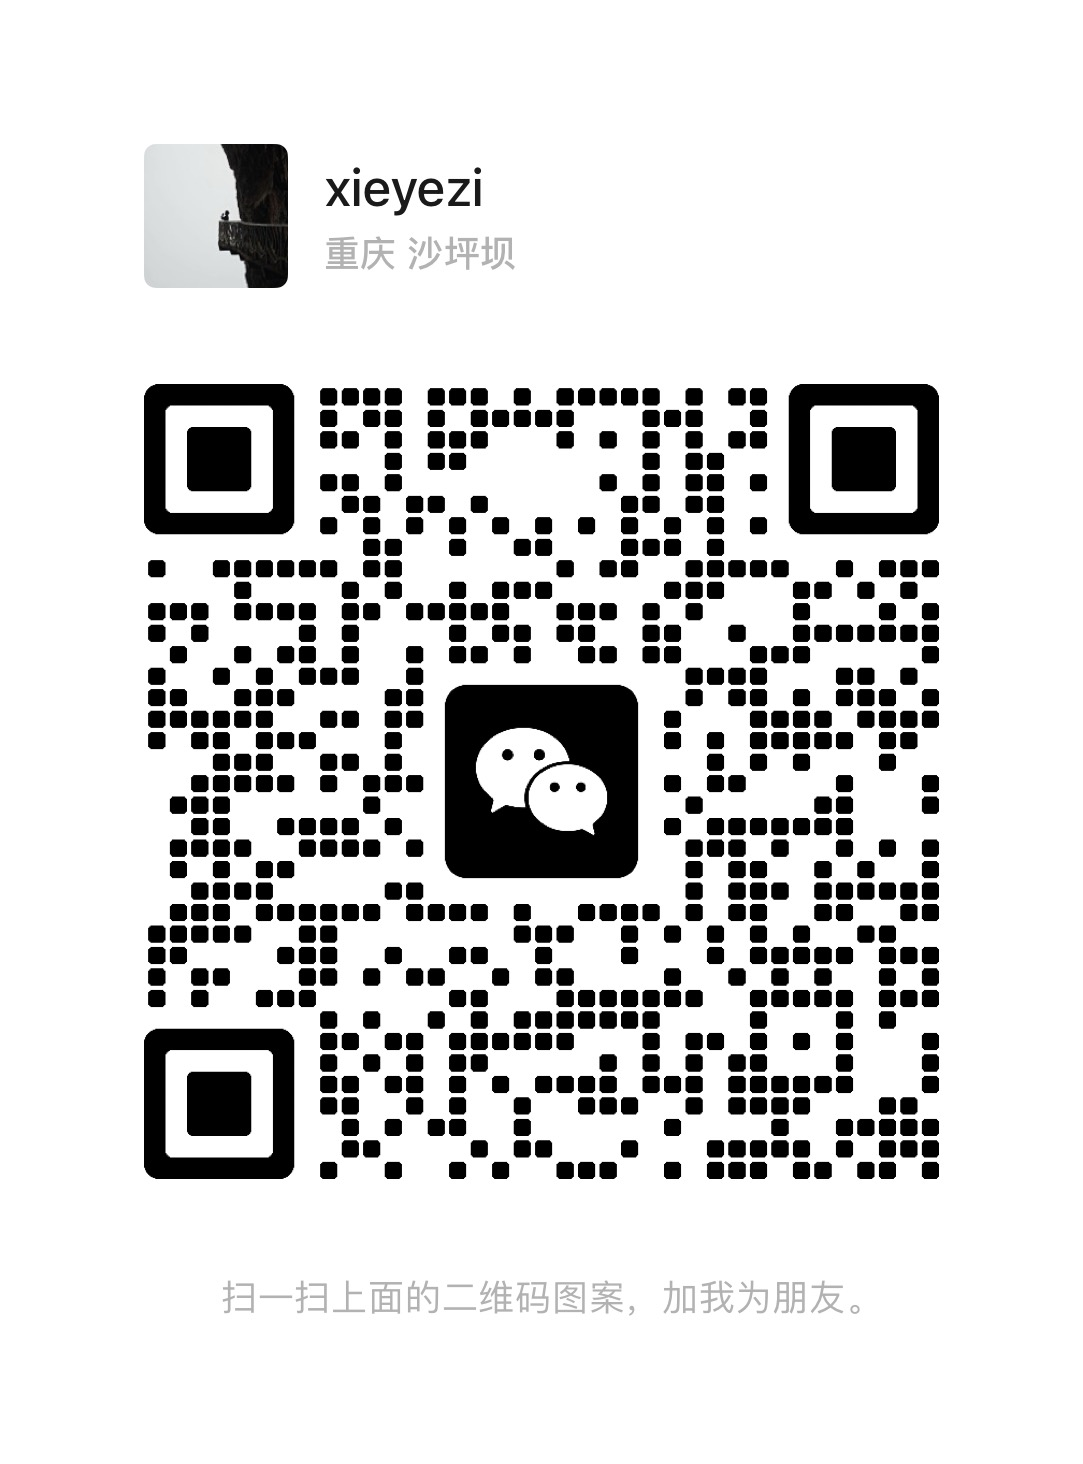
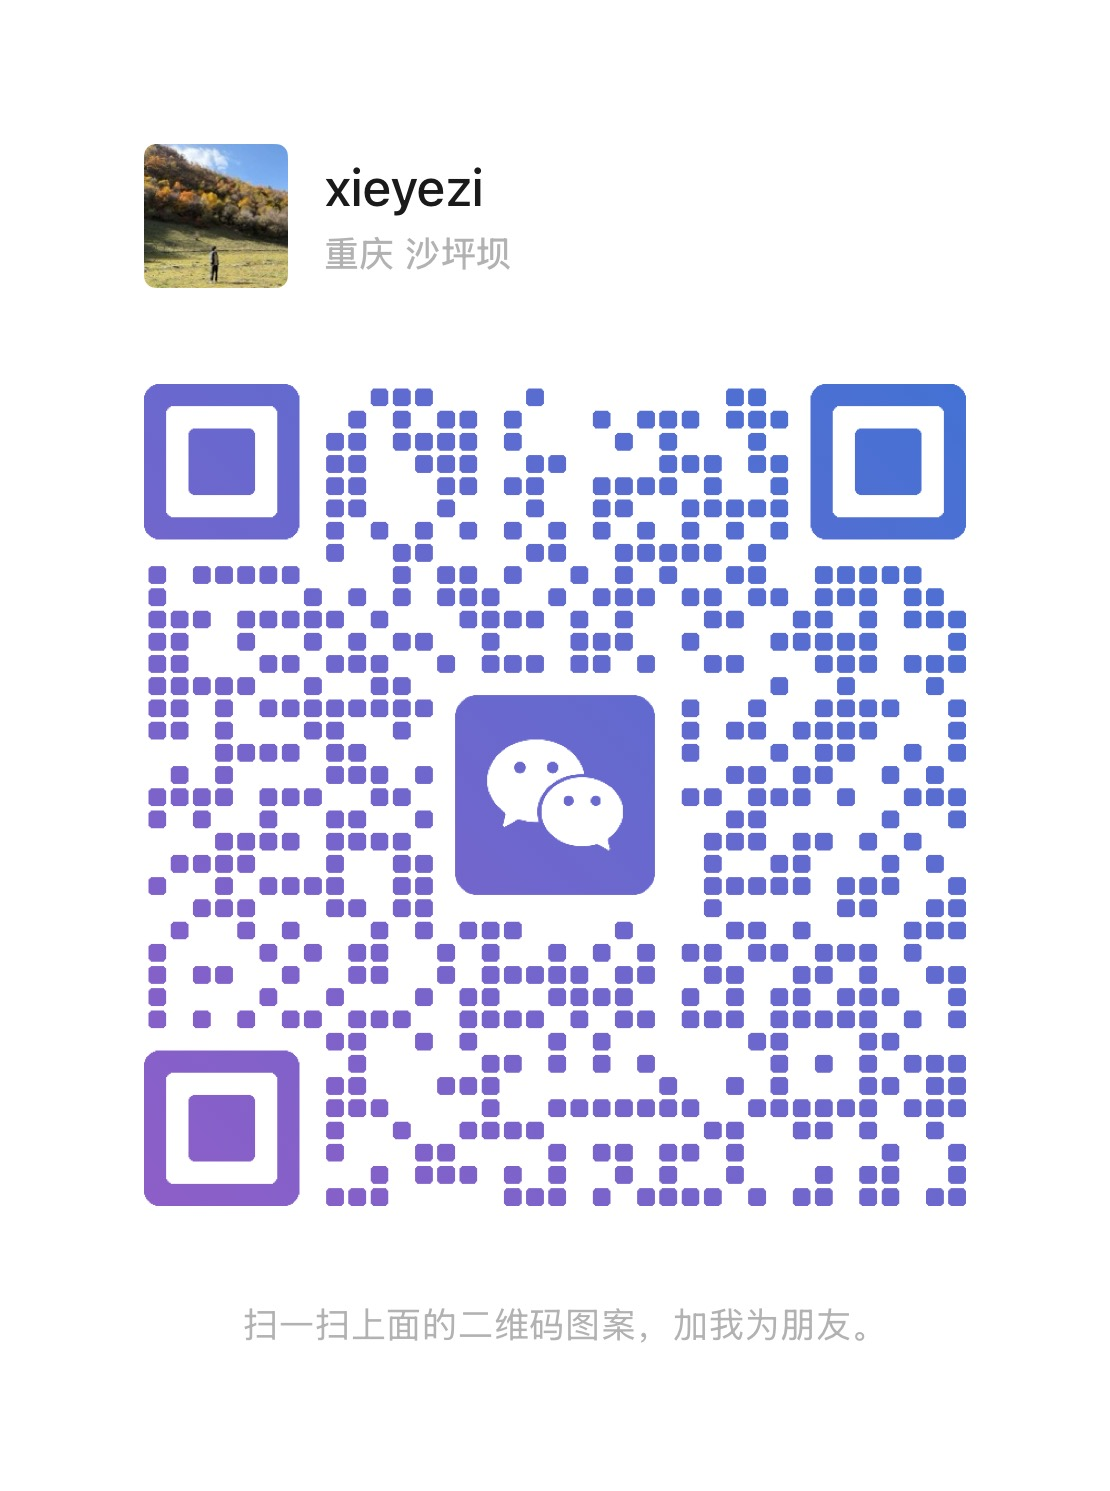
refactor: improve spacing in ResumeAdvantage and update translations in ResumeProfile for consistency

diff --git a/src/components/resume-profile.tsx b/src/components/resume-profile.tsx
@@ -2,11 +2,11 @@
 
 import Image from "next/image";
 import { Mail, Phone, Github, MessageCircleMore, Twitter, Send } from "lucide-react";
-import { useTranslations } from 'next-intl';
+import { useTranslations } from "next-intl";
 import Profile from "@/static/avator.png";
 
 export function ResumeProfile() {
-  const t = useTranslations('profile');
+  const t = useTranslations("profile");
 
   return (
     <header className='resume-header md:flex md:items-center md:justify-between md:flex-row-reverse mb-4'>
@@ -15,38 +15,40 @@ export function ResumeProfile() {
       </div>
 
       <div className='header-info md:text-left text-center mt-2 md:mt-0'>
-        <h1 className='text-xl mb-2 text-gray-800 dark:text-white font-semibold'>{t('name')}</h1>
-        <h2 className='mb-2 text-gray-600 dark:text-gray-300'>{t('title')}</h2>
+        <h1 className='text-xl mb-2 text-gray-800 dark:text-white font-semibold'>{t("name")}</h1>
+        <h2 className='mb-2 text-gray-600 dark:text-gray-300'>{t("title")}</h2>
 
         <ul className='link-list text-left flex md:items-center flex-wrap'>
           <li className='mr-3 mb-2 flex items-center'>
             <Github className='w-4 h-4 mr-1 text-gray-500' />
             <a href='https://github.com/xieyezi' target='_blank' className='text-gray-600 dark:text-gray-300 hover:text-gray-800' rel='noreferrer'>
-              {t('github')}
+              {t("github")}
             </a>
           </li>
           <li className='mr-3 mb-2 flex items-center'>
             <Twitter className='w-4 h-4 mr-1 text-gray-500' />
             <a href='https://x.com/xieyezi666' target='_blank' className='text-gray-600 dark:text-gray-300 hover:text-gray-800' rel='noreferrer'>
-              {t('twitter')}
+              {t("twitter")}
             </a>
           </li>
           <li className='mr-3 mb-2 flex items-center'>
             <Send className='w-4 h-4 mr-1 text-gray-500' />
             <a href='https://t.me/xieyezi666' target='_blank' className='text-gray-600 dark:text-gray-300 hover:text-gray-800' rel='noreferrer'>
-              {t('telegram')}
+              {t("telegram")}
             </a>
           </li>
           <li className='mr-3 mb-2 flex items-center'>
-            <MessageCircleMore className='w-4 h-4 mr-1 text-gray-500' />
-            <a href='https://www.helloimg.com/i/2025/04/03/67ee9eb6239ba.png' target='_blank' className='text-gray-600 dark:text-gray-300 hover:text-gray-800' rel='noreferrer'>
-              {t('wechat')}
+            <svg xmlns='http://www.w3.org/2000/svg' viewBox='0 0 24 24' fill='currentColor' className='w-4 h-4 mr-1 text-gray-500'>
+              <path d='M10.0014 14.6757C10.0011 14.6551 10.001 14.6345 10.001 14.6138C10.001 12.1055 12.0175 9.99564 14.7539 9.38092C14.3904 7.07873 11.9602 5.19995 8.90098 5.19995C5.58037 5.19995 3.00098 7.41344 3.00098 9.9793C3.00098 10.9487 3.36131 11.88 4.04082 12.6781C4.0728 12.7157 4.12443 12.7717 4.19342 12.8427C4.78537 13.4517 5.13709 14.2457 5.19546 15.0805C5.90857 14.6683 6.74285 14.5123 7.55832 14.6392C7.72416 14.665 7.85986 14.6847 7.96345 14.6982C8.27111 14.7383 8.58419 14.7586 8.90098 14.7586C9.27825 14.7586 9.64595 14.7301 10.0014 14.6757ZM10.4581 16.627C9.95467 16.7133 9.43399 16.7586 8.90098 16.7586C8.49441 16.7586 8.09502 16.7323 7.70499 16.6815C7.58312 16.6656 7.4317 16.6436 7.25073 16.6154C6.87693 16.5572 6.49436 16.6321 6.1713 16.8268L4.26653 17.9745C4.12052 18.0646 3.94891 18.1057 3.77733 18.0916C3.33814 18.0554 3.01178 17.6744 3.04837 17.2405L3.19859 15.4596C3.23664 15.0086 3.07664 14.5632 2.75931 14.2367C2.66182 14.1364 2.5814 14.0491 2.51802 13.9747C1.56406 12.8542 1.00098 11.4732 1.00098 9.9793C1.00098 6.23517 4.53793 3.19995 8.90098 3.19995C12.9601 3.19995 16.3041 5.82699 16.7504 9.20788C20.1225 9.36136 22.801 11.723 22.801 14.6138C22.801 15.8068 22.3448 16.9097 21.572 17.8044C21.5206 17.8639 21.4555 17.9336 21.3765 18.0137C21.1194 18.2744 20.9898 18.6301 21.0206 18.9903L21.1423 20.4125C21.172 20.759 20.9076 21.0632 20.5518 21.0921C20.4128 21.1034 20.2738 21.0706 20.1555 20.9986L18.6124 20.0821C18.3506 19.9266 18.0407 19.8668 17.7379 19.9133C17.5913 19.9358 17.4686 19.9533 17.3699 19.966C17.0539 20.0066 16.7303 20.0277 16.401 20.0277C13.7074 20.0277 11.4025 18.6201 10.4581 16.627ZM17.4346 17.9364C18.0019 17.8494 18.5793 17.911 19.1105 18.1111C19.2492 17.5503 19.5373 17.0304 19.9524 16.6094C20.0027 16.5585 20.0388 16.5198 20.0584 16.4971C20.5467 15.9318 20.801 15.2839 20.801 14.6138C20.801 12.8095 18.8983 11.2 16.401 11.2C13.9037 11.2 12.001 12.8095 12.001 14.6138C12.001 16.4181 13.9037 18.0277 16.401 18.0277C16.6424 18.0277 16.8809 18.0124 17.115 17.9823C17.1957 17.972 17.3029 17.9566 17.4346 17.9364Z'></path>
+            </svg>
+            <a href='https://www.helloimg.com/i/2025/12/05/6932a6fc25fb4.png' target='_blank' className='text-gray-600 dark:text-gray-300 hover:text-gray-800' rel='noreferrer'>
+              {t("wechat")}
             </a>
           </li>
           <li className='mr-3 mb-2 flex items-center'>
             <Mail className='w-4 h-4 mr-1 text-gray-500' />
             <a href='mailto:1435398529@qq.com' className='text-gray-600 dark:text-gray-300 hover:text-gray-800'>
-              {t('email')}
+              {t("email")}
             </a>
           </li>
         </ul>

diff --git a/src/components/resume-advantage.tsx b/src/components/resume-advantage.tsx
@@ -14,7 +14,7 @@ export function ResumeAdvantage() {
         </header>
 
         <div className='content-section-container border-b border-gray-200 pb-4 border-dashed dark:border-gray-700'>
-          <ul className='list-disc list-inside'>
+          <ul className='list-disc list-inside space-y-1'>
             {tAdv.raw('items').map((item: string, index: number) => (
               <li key={index}>{item}</li>
             ))}
